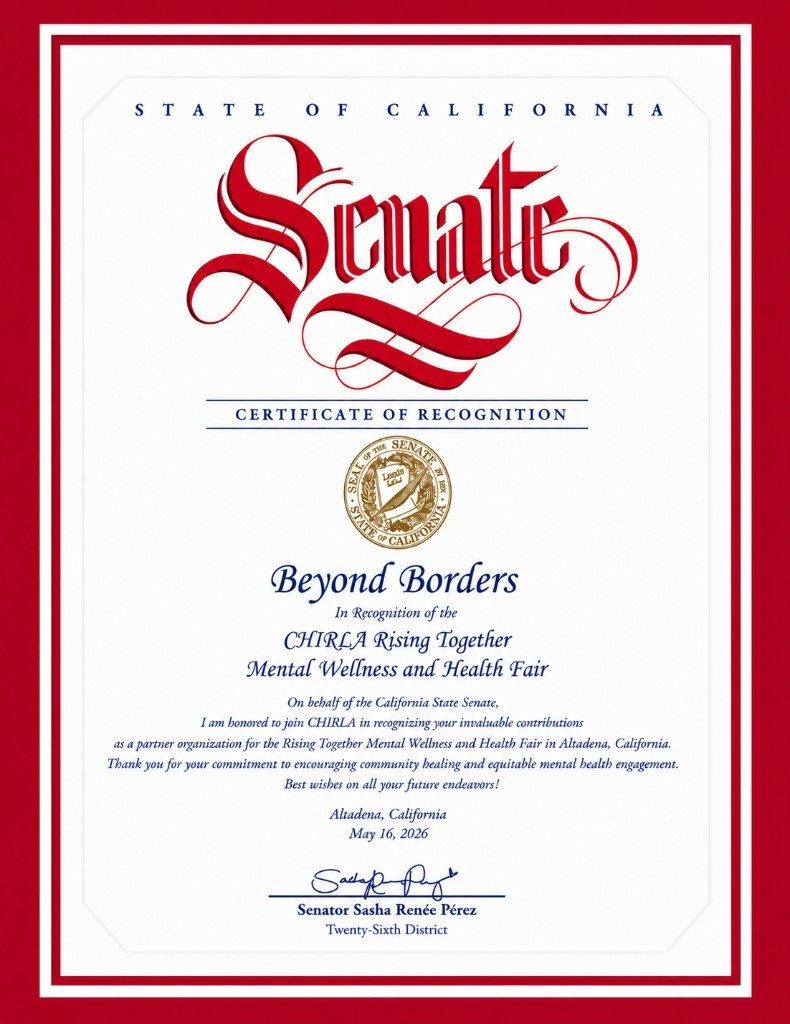
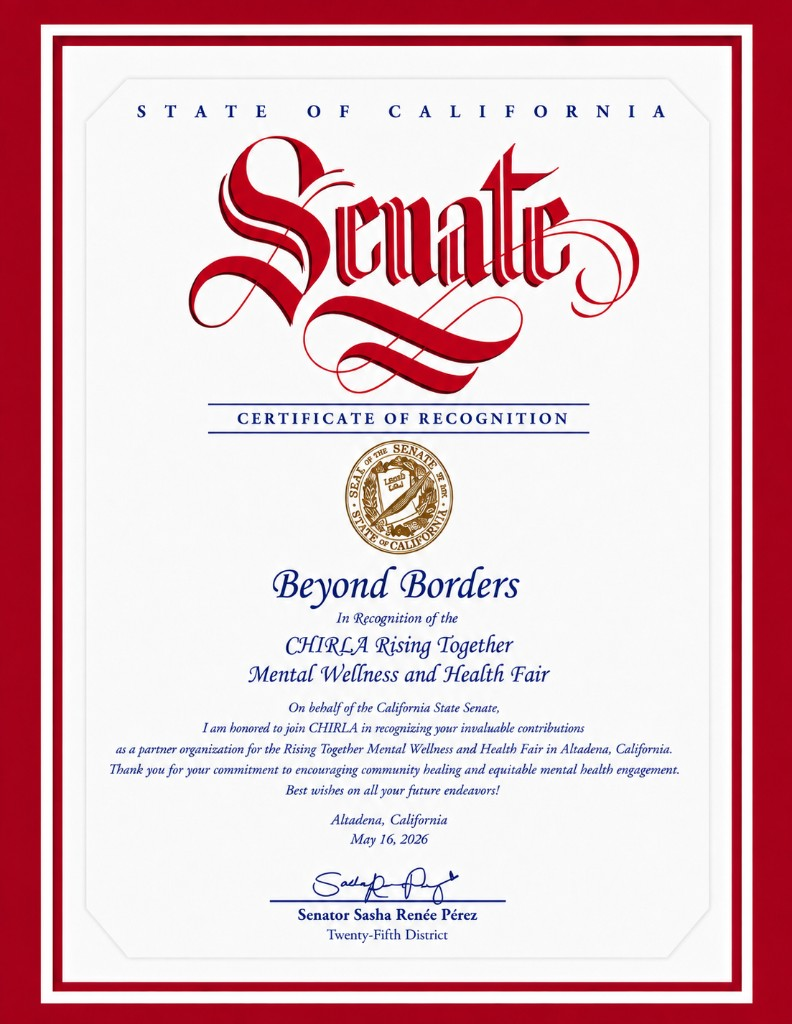
Correct the Senate certificate to the Twenty-Fifth District.

diff --git a/index.html b/index.html
@@ -141,14 +141,14 @@
               Rising Together Mental Wellness and Health Fair in Altadena,
               California, on May 16, 2026.
             </p>
-            <p class="prose">Presented by Senator Sasha Renée Pérez, Twenty-Sixth District.</p>
+            <p class="prose">Presented by Senator Sasha Renée Pérez, Twenty-Fifth District.</p>
           </div>
           <figure class="recognition-photo">
             <a href="assets/senate-recognition.jpg">
               <img
                 src="assets/senate-recognition.jpg"
                 alt="California State Senate Certificate of Recognition awarded to Beyond Borders, May 16, 2026."
-                width="790"
+                width="792"
                 height="1024"
               />
             </a>
